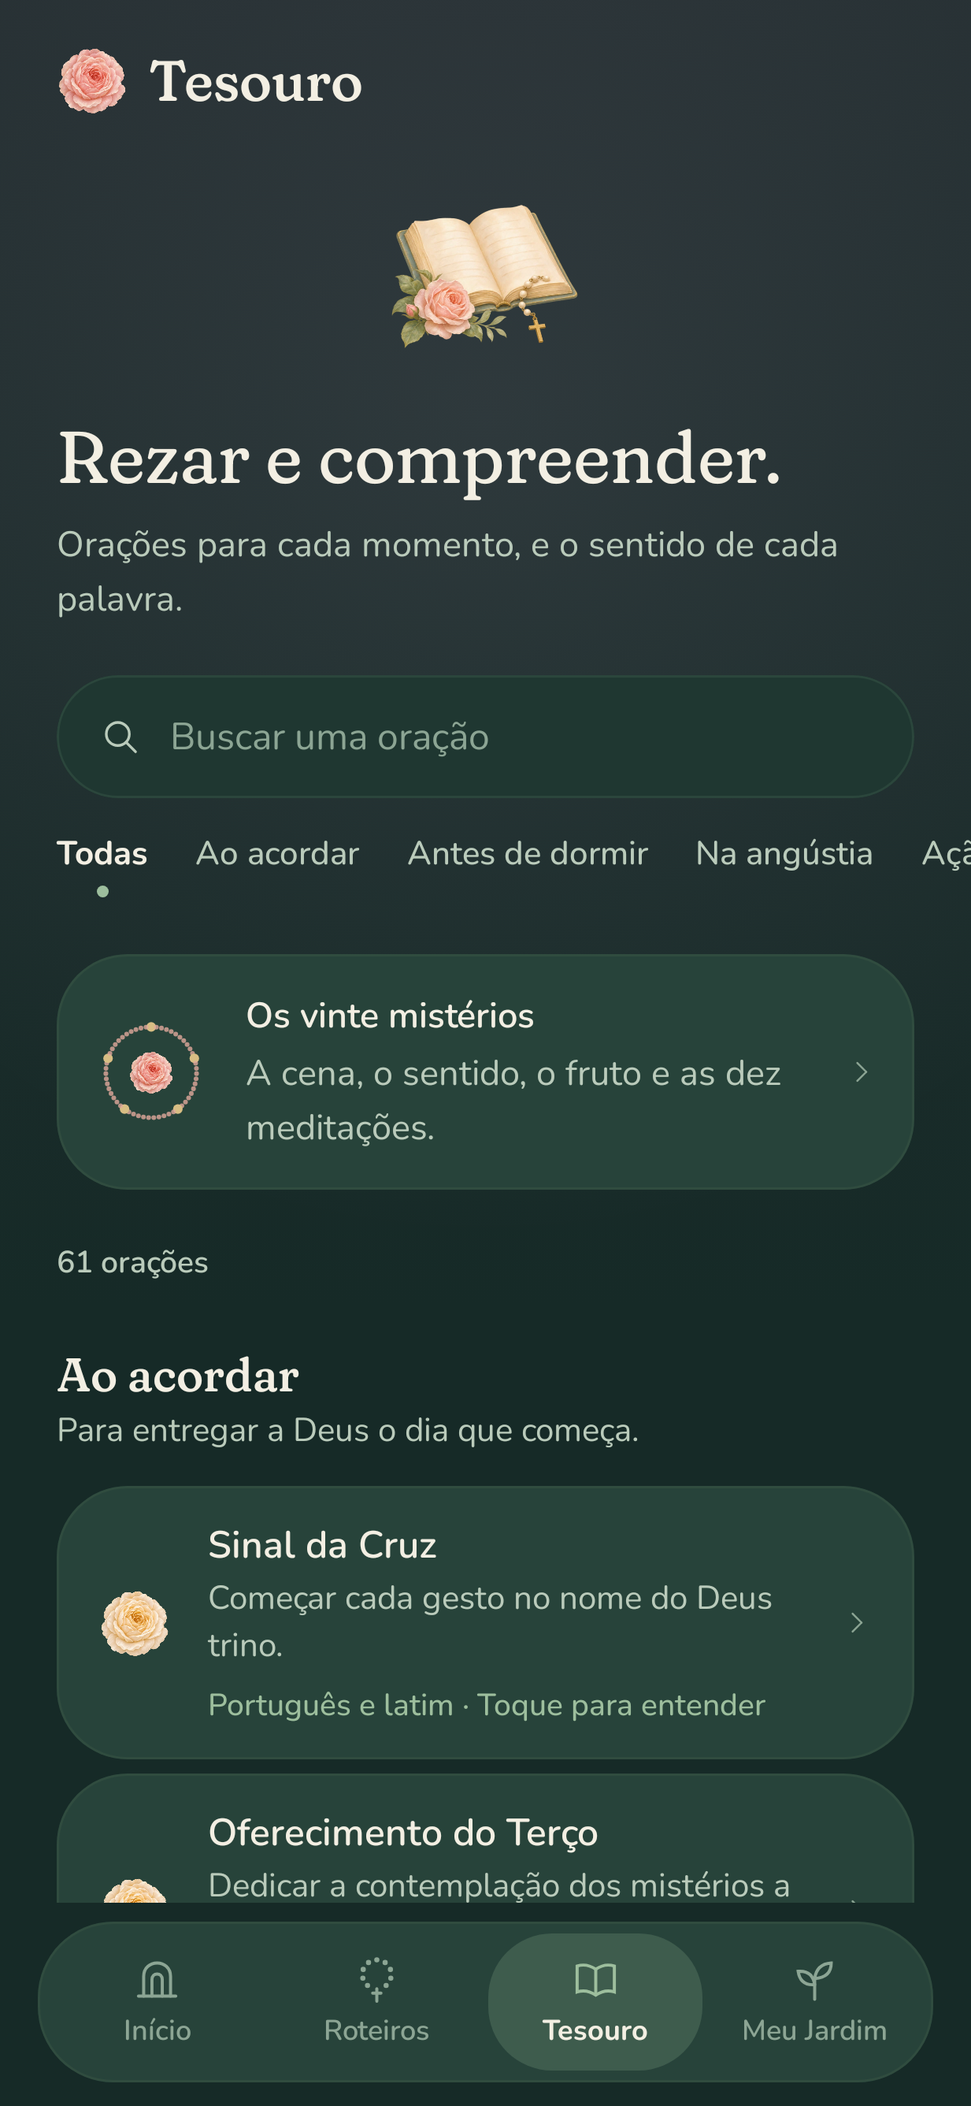
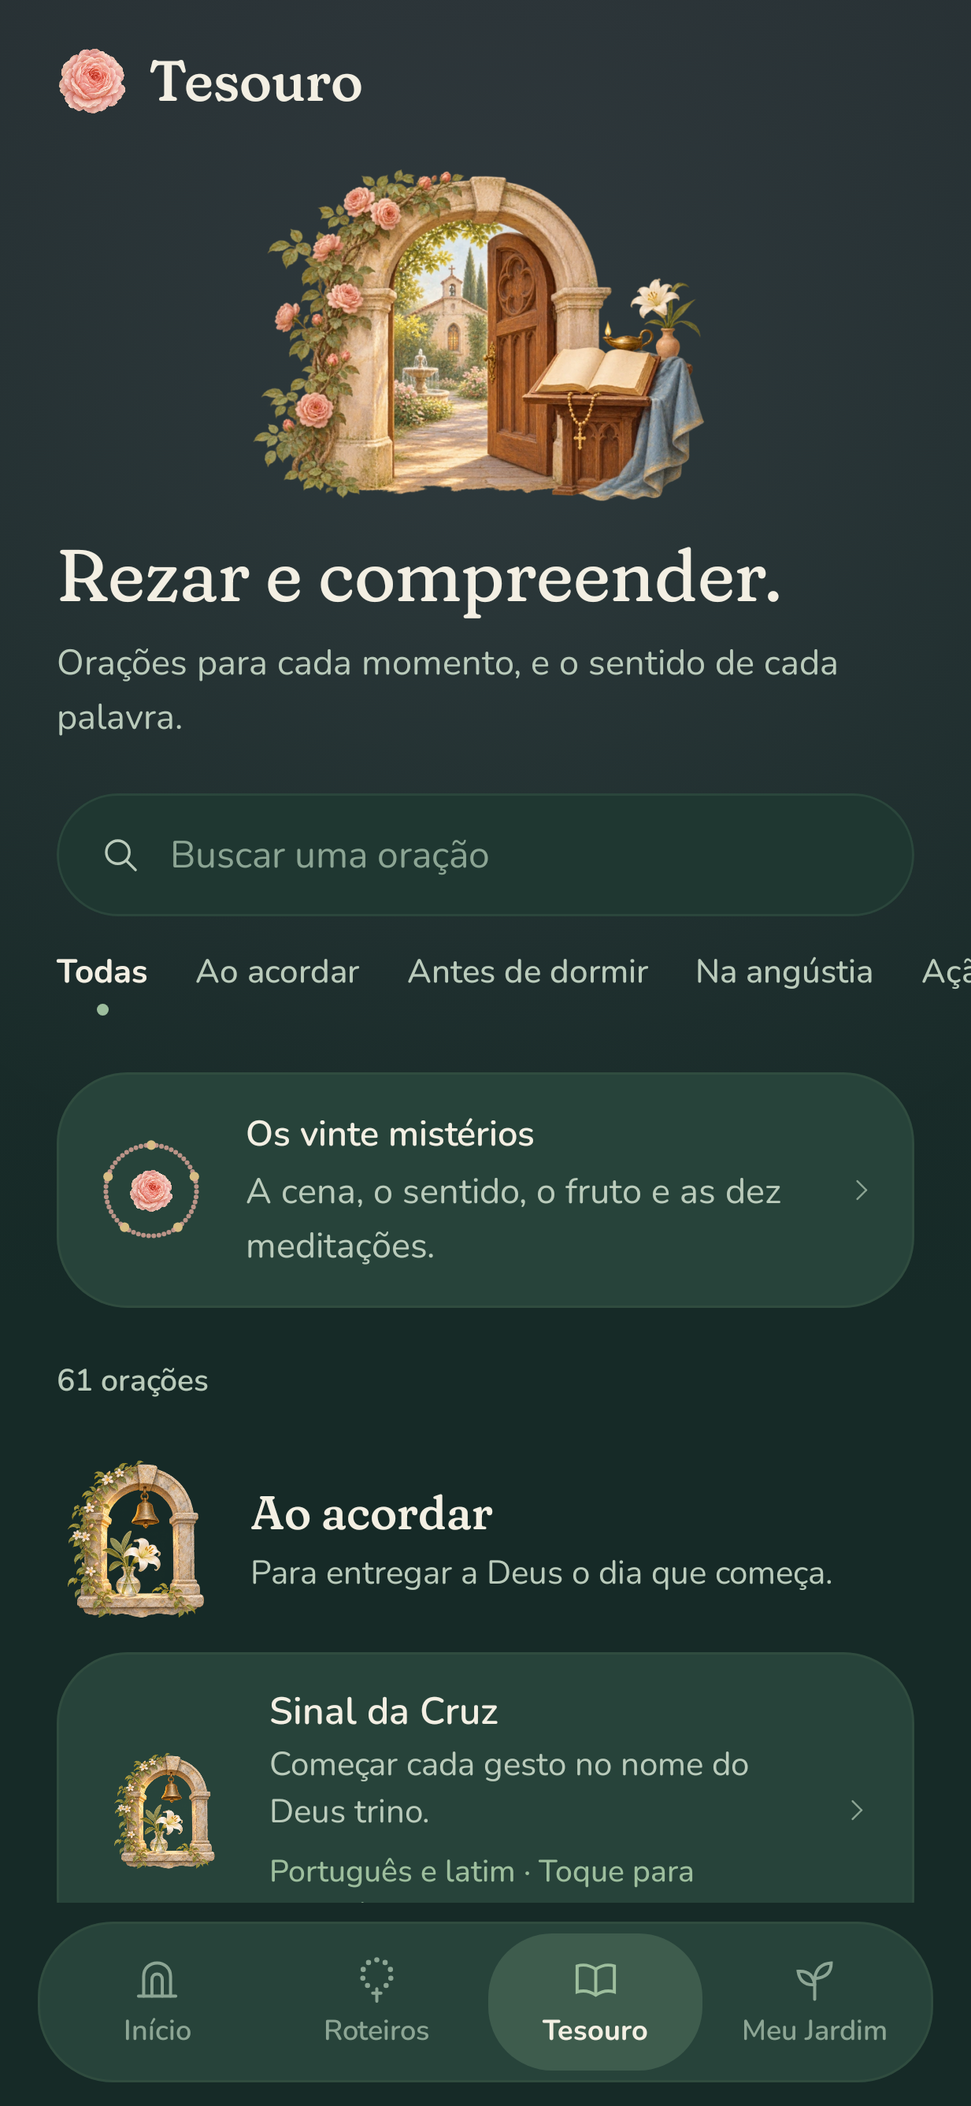
Give the Treasury seven original sacred paintings

diff --git a/app/src/main/java/com/sertumrosarum/feature/treasury/PrayerLibrary.kt b/app/src/main/java/com/sertumrosarum/feature/treasury/PrayerLibrary.kt
@@ -54,7 +54,6 @@ import com.sertumrosarum.ui.components.PageWelcome
 import com.sertumrosarum.ui.components.SacredCard
 import com.sertumrosarum.ui.components.SacredIcon
 import com.sertumrosarum.ui.components.SacredText
-import com.sertumrosarum.ui.components.ShelfHeading
 import com.sertumrosarum.ui.theme.SertumTheme
 
 /** The library: a search, the moments of life, and one shelf for each moment that has prayers. */
@@ -69,10 +68,15 @@ internal fun PrayerLibrary(state: TreasuryUiState, actions: TreasuryActions, scr
             SacredText("Tesouro", Modifier.semantics { heading() }, type.brand)
         }
         LazyColumn(Modifier.fillMaxSize().testTag("treasury-scroll"), state = scroll) {
-            item("welcome") {
+            if (state.query.isBlank()) item("welcome") {
                 Column(horizontalAlignment = Alignment.CenterHorizontally) {
-                    DevotionalArtwork(DevotionalIllustration.PRAYER_BOOK, Modifier.padding(top = 12.dp).size(width = 144.dp, height = 88.dp))
-                    PageWelcome("Rezar e compreender.", "Orações para cada momento, e o sentido de cada palavra.", Modifier.padding(top = 14.dp))
+                    val category = state.category
+                    if (category == null) {
+                        DevotionalArtwork(DevotionalIllustration.TREASURY_ENTRANCE, Modifier.padding(top = 10.dp).size(width = 256.dp, height = 144.dp))
+                    } else {
+                        TreasuryArtwork(category, Modifier.padding(top = 12.dp).size(120.dp))
+                    }
+                    PageWelcome(category?.label ?: "Rezar e compreender.", category?.caption ?: "Orações para cada momento, e o sentido de cada palavra.", Modifier.padding(top = 10.dp))
                 }
             }
             item("search") { PrayerSearchField(state.query, actions::search, Modifier.padding(start = 24.dp, end = 24.dp, top = 22.dp)) }
@@ -102,8 +106,15 @@ internal fun PrayerLibrary(state: TreasuryUiState, actions: TreasuryActions, scr
             } else {
                 val shelves = state.prayers.groupBy { it.category }
                 PrayerCategory.entries.filter { it in shelves }.forEach { category ->
-                    item("heading-${category.name}") {
-                        ShelfHeading(category.label, category.caption, Modifier.padding(top = 18.dp).testTag("shelf-${category.name}"))
+                    if (state.category == null) item("heading-${category.name}") {
+                        Row(Modifier.fillMaxWidth().padding(start = 20.dp, end = 24.dp, top = 12.dp, bottom = 10.dp).testTag("shelf-${category.name}"),
+                            verticalAlignment = Alignment.CenterVertically, horizontalArrangement = Arrangement.spacedBy(10.dp)) {
+                            TreasuryArtwork(category, Modifier.size(76.dp))
+                            Column(Modifier.weight(1f)) {
+                                SacredText(category.label, Modifier.semantics { heading() }, type.section)
+                                SacredText(category.caption, Modifier.padding(top = 4.dp), type.body.copy(fontSize = 14.sp, lineHeight = 21.sp), colors.secondary)
+                            }
+                        }
                     }
                     items(shelves.getValue(category), key = { "prayer-${it.id}" }, contentType = { "prayer" }) { prayer ->
                         SacredCard(Modifier.padding(horizontal = 24.dp).padding(bottom = 6.dp).fillMaxWidth()) { PrayerRow(prayer) { actions.openPrayer(prayer) } }
@@ -176,13 +187,12 @@ private fun CategoryChoices(selected: PrayerCategory?, onSelect: (PrayerCategory
 private fun PrayerRow(prayer: TreasuryPrayer, onOpen: () -> Unit) {
     val colors = SertumTheme.colors
     val type = SertumTheme.typography
-    val art = LocalBotanicalArtwork.current
     Row(
         Modifier.fillMaxWidth().clickable(role = Role.Button, onClickLabel = "Ler esta oração", onClick = onOpen).testTag("prayer-${prayer.id}")
             .heightIn(min = 76.dp).padding(start = 18.dp, end = 18.dp, top = 14.dp, bottom = 14.dp),
         verticalAlignment = Alignment.CenterVertically, horizontalArrangement = Arrangement.spacedBy(16.dp),
     ) {
-        Canvas(Modifier.size(30.dp)) { paintBotanical(art.ivoryRose, center, size.minDimension) }
+        TreasuryArtwork(prayer.category, Modifier.size(56.dp))
         Column(Modifier.weight(1f)) {
             SacredText(prayer.title, style = type.label.copy(fontSize = 16.sp, lineHeight = 22.sp, fontWeight = FontWeight.SemiBold))
             SacredText(prayer.summary, Modifier.padding(top = 2.dp), type.body.copy(fontSize = 14.sp, lineHeight = 20.sp), colors.secondary)

diff --git a/app/src/test/java/com/sertumrosarum/screenshots/TesouroScreenshotTest.kt b/app/src/test/java/com/sertumrosarum/screenshots/TesouroScreenshotTest.kt
@@ -10,6 +10,7 @@ import androidx.compose.ui.test.performSemanticsAction
 import androidx.compose.ui.test.performScrollToNode
 import androidx.compose.ui.test.hasTestTag
 import com.github.takahirom.roborazzi.captureRoboImage
+import com.sertumrosarum.domain.treasury.PrayerCategory
 import com.sertumrosarum.MainActivity
 import org.junit.Rule
 import org.junit.Test
@@ -51,6 +52,22 @@ class TesouroScreenshotTest {
         shot("tesouro-library")
         tap("category-WAKING")
         shot("tesouro-morning")
+    }
+
+    @Test fun eachMomentHasItsOwnPaintingInDayAndVigil() {
+        appearance("DAY")
+        tap("tab-TREASURY")
+        PrayerCategory.entries.forEach { category ->
+            tap("category-${category.name}")
+            shot("tesouro-category-${category.name.lowercase()}")
+        }
+        tap("tab-HOME")
+        appearance("VIGIL")
+        tap("tab-TREASURY")
+        listOf(PrayerCategory.NIGHT, PrayerCategory.COMMUNION).forEach { category ->
+            tap("category-${category.name}")
+            shot("tesouro-category-${category.name.lowercase()}-vigil")
+        }
     }
 
     @Test fun prayerInThreeReadings() {

diff --git a/app/src/main/java/com/sertumrosarum/feature/treasury/TreasuryArtwork.kt b/app/src/main/java/com/sertumrosarum/feature/treasury/TreasuryArtwork.kt
@@ -1,0 +1,23 @@
+package com.sertumrosarum.feature.treasury
+
+import androidx.compose.runtime.Composable
+import androidx.compose.ui.Modifier
+import com.sertumrosarum.domain.treasury.PrayerCategory
+import com.sertumrosarum.ui.canvas.DevotionalArtwork
+import com.sertumrosarum.ui.canvas.DevotionalIllustration
+
+/** The moment gives each shelf its own iconography; the shared cache decodes each painting once. */
+private val PrayerCategory.illustration: DevotionalIllustration
+    get() = when (this) {
+        PrayerCategory.WAKING -> DevotionalIllustration.TREASURY_MORNING
+        PrayerCategory.NIGHT -> DevotionalIllustration.TREASURY_NIGHT
+        PrayerCategory.DISTRESS -> DevotionalIllustration.TREASURY_CONSOLATION
+        PrayerCategory.THANKSGIVING -> DevotionalIllustration.TREASURY_THANKSGIVING
+        PrayerCategory.COMMUNION -> DevotionalIllustration.TREASURY_COMMUNION
+        PrayerCategory.MARIAN -> DevotionalIllustration.TREASURY_MARIAN
+    }
+
+@Composable
+internal fun TreasuryArtwork(category: PrayerCategory, modifier: Modifier = Modifier) {
+    DevotionalArtwork(category.illustration, modifier)
+}

diff --git a/app/src/main/java/com/sertumrosarum/feature/treasury/PrayerReadingPage.kt b/app/src/main/java/com/sertumrosarum/feature/treasury/PrayerReadingPage.kt
@@ -73,7 +73,8 @@ internal fun PrayerReadingPage(prayer: TreasuryPrayer, language: PrayerLanguage,
     val shown = if (latin == null) PrayerLanguage.PORTUGUESE else language
     SanctuaryPage(SanctuaryTab.TREASURY.label, "treasury-reading", onBack = actions::backToLibrary) {
         Column(Modifier.fillMaxWidth().padding(horizontal = 24.dp), horizontalAlignment = Alignment.CenterHorizontally) {
-            SacredText(prayer.category.label, Modifier.padding(top = 18.dp), type.micro, colors.marian, TextAlign.Center)
+            TreasuryArtwork(prayer.category, Modifier.padding(top = 12.dp).size(88.dp))
+            SacredText(prayer.category.label, Modifier.padding(top = 8.dp), type.micro, colors.marian, TextAlign.Center)
             val latinTitle = prayer.latinTitle
             if (shown == PrayerLanguage.LATIN && latinTitle != null) {
                 SacredText(latinTitle, Modifier.padding(top = 6.dp).testTag("reading-title").semantics { heading() }, type.heading.inLatin, align = TextAlign.Center)

diff --git a/app/src/main/java/com/sertumrosarum/ui/canvas/DevotionalArtwork.kt b/app/src/main/java/com/sertumrosarum/ui/canvas/DevotionalArtwork.kt
@@ -16,6 +16,13 @@ import com.sertumrosarum.R
 
 enum class DevotionalIllustration(internal val resourceId: Int) {
     PRAYER_BOOK(R.drawable.devotion_prayer_book),
+    TREASURY_ENTRANCE(R.drawable.treasury_entrance),
+    TREASURY_MORNING(R.drawable.treasury_morning),
+    TREASURY_NIGHT(R.drawable.treasury_night),
+    TREASURY_CONSOLATION(R.drawable.treasury_consolation),
+    TREASURY_THANKSGIVING(R.drawable.treasury_thanksgiving),
+    TREASURY_COMMUNION(R.drawable.treasury_communion),
+    TREASURY_MARIAN(R.drawable.treasury_marian),
     HOLY_FAMILY(R.drawable.devotion_holy_family),
     DIVINE_MERCY(R.drawable.devotion_divine_mercy),
     SAINT_JOSEPH(R.drawable.devotion_saint_joseph),

diff --git a/docs/artwork/treasury/README.md b/docs/artwork/treasury/README.md
@@ -1,0 +1,60 @@
+# Seven original paintings for Tesouro
+
+The Treasury has its own coordinated sacred artwork: six paintings for its moments of life and a welcoming chapel-garden entrance. These are original model-generated watercolor and gouache paintings, created for this project. They extend the cream, sage, Marian blue and restrained gold of the existing garden. The concept atlas established the palette; each final category painting was then generated separately with a complete silhouette and real alpha transparency.
+
+| Ao acordar | Antes de dormir | Na angústia |
+| --- | --- | --- |
+| <img src="masters/morning.png" width="220" alt="A garden arch, morning bell, lily and jasmine" /> | <img src="masters/night.png" width="220" alt="A bronze oil lamp, blue prayer book, jasmine and crescent moon" /> | <img src="masters/consolation.png" width="220" alt="Jesus the Good Shepherd gently holding one lamb" /> |
+
+| Ação de graças | Pós-comunhão | Marianas e tradicionais |
+| --- | --- | --- |
+| <img src="masters/thanksgiving.png" width="220" alt="A harvest basket of bread, figs, grapes, pomegranate and wheat" /> | <img src="masters/communion.png" width="220" alt="A gold chalice and plain host, with altar linen, wheat and grapes" /> | <img src="masters/marian.png" width="220" alt="Mary reading an open prayer book, with a lily and rose" /> |
+
+<img src="masters/entrance.png" width="660" alt="A rose-covered chapel arch opens onto a quiet garden; a reading stand holds a prayer book and rosary" />
+
+## Where the paintings appear
+
+The chapel entrance welcomes the reader to the complete library. Choosing a moment changes the opening illustration and its words. On the full library, each shelf has its own 76 dp painting; prayer cards use the corresponding 56 dp painting, replacing the repeated ivory rose. The reading page carries an 88 dp illustration above its category and title.
+
+During search, the large introductory illustration steps aside so results come into view immediately. The words, category labels and touch targets carry the navigation; paintings are decorative and never replace an accessible name. All images retain their proportions with `ContentScale.Fit`. No face, halo, moon or chalice is cropped. The paintings remain still in both Day and Vigil.
+
+## Masters and generation record
+
+The seven final [PNG masters](masters) remain unmodified at their generated resolution: 1254 × 1254 for each category and 1536 × 1024 for the entrance. The [concept atlas](masters/concept-atlas.png) is also preserved as reference; the app does not crop its illustrations out of the atlas. [prompts.json](prompts.json) records generation prompts, filenames, reference relationships and SHA-256 values.
+
+The iconography is intentionally distinct. The Good Shepherd accompanies consolation; the chalice belongs to communion; the basket expresses thanksgiving. The Marian portrait shows Mary alone reading, rather than repeating the existing mother-and-child pictures. Prayer-book pages and the host contain no generated lettering. The images illustrate a moment of prayer, not a claim to depict the historical setting of every prayer on that shelf.
+
+## Runtime exports
+
+Six transparent 512 × 512 WebP files and one 768 × 512 entrance WebP are bundled in `drawable-nodpi`. Together they add approximately **636 KiB** of image data. The shared devotional cache decodes each painting once on first use, so repeated cards do not allocate repeated bitmaps. Decoding all seven uses about **7.5 MiB**; the full-resolution masters and concept atlas stay outside the APK.
+
+Reproduce the exports with ImageMagick from the repository root:
+
+```sh
+for subject in morning night consolation thanksgiving communion marian; do
+  magick "docs/artwork/treasury/masters/$subject.png" \
+    -resize 512x512 -define webp:method=6 -quality 94 \
+    "app/src/main/res/drawable-nodpi/treasury_$subject.webp"
+done
+magick docs/artwork/treasury/masters/entrance.png \
+  -resize 768x512 -define webp:method=6 -quality 94 \
+  app/src/main/res/drawable-nodpi/treasury_entrance.webp
+```
+
+## Review on the real interface
+
+`TesouroScreenshotTest` renders every category in Day, the night and communion paintings in Vigil, and the reading/glossary on a narrow phone. These are actual Compose renders, not image-generated app mockups.
+
+```sh
+./gradlew recordRoborazziDebug --tests 'com.sertumrosarum.screenshots.TesouroScreenshotTest'
+```
+
+| Morning | Night | Consolation |
+| --- | --- | --- |
+| <img src="../../screenshots/tesouro-category-waking.png" width="220" alt="Morning prayer shelf in the app" /> | <img src="../../screenshots/tesouro-category-night.png" width="220" alt="Night prayer shelf in the app" /> | <img src="../../screenshots/tesouro-category-distress.png" width="220" alt="Consolation prayer shelf in the app" /> |
+
+| Thanksgiving | Communion in Vigil | Reading |
+| --- | --- | --- |
+| <img src="../../screenshots/tesouro-category-thanksgiving.png" width="220" alt="Thanksgiving prayer shelf in the app" /> | <img src="../../screenshots/tesouro-category-communion-vigil.png" width="220" alt="Communion prayer shelf in Vigil" /> | <img src="../../screenshots/tesouro-prayer.png" width="220" alt="The Ave Maria reading page with its original Marian painting" /> |
+
+The [Phase 3 documentation](../../phase-3.md) describes the library, content sources and behavioral tests.

diff --git a/docs/design-system.md b/docs/design-system.md
@@ -78,7 +78,7 @@ A sheet is a rounded page of the background colour that rises over a dusk-green 
 
 ### Tesouro
 
-The library opens under the painted prayer book. A soft search field sits on the surface colour; its cross appears only when there is something to clear. The moments of life follow as plain words in a row that runs past the edge, with a small sage bead under the chosen one. Each moment that has prayers is a shelf in the Roteiros form: a heading, a caption, and one card whose rows are separated by a hairline. What a prayer offers beyond its text (*Português e latim*, *Toque para entender*) stays typographic. A moment with nothing on it, or a search with no result, says so under a single bud. A **Formação** shelf leads to the twenty mysteries.
+The Treasury opens under its own painted chapel-garden entrance. Six original transparent paintings distinguish its moments of life in shelf headings, prayer rows and reading pages. Choosing a moment brings its painting into the opening; searching hides this large introduction so results come forward. A soft search field sits on the surface colour; its cross appears only when there is something to clear. The moments of life follow as plain words in a row that runs past the edge, with a small sage bead under the chosen one. Each moment that has prayers is a shelf in the Roteiros form: a heading, a caption, and one card whose rows are separated by a hairline. What a prayer offers beyond its text (*Português e latim*, *Toque para entender*) stays typographic. A moment with nothing on it, or a search with no result, says so under a single bud. A **Formação** shelf leads to the twenty mysteries.
 
 A prayer or the mysteries guide opens as a page of the same place: the way back takes the rose's seat beside **Tesouro**, and the shelf of four places stays. The prayer is set exactly as in the rosary, at 21 / 34 sp. When it has a Latin text, one soft track offers **Português**, **Latim**, and **Lado a lado**, in the mystery selector's form.
 

diff --git a/docs/phase-3.md b/docs/phase-3.md
@@ -10,6 +10,10 @@ Every prayer has a reading context and an attribution. These identify traditiona
 
 The bilingual reader aligns complete phrases or stanzas, with Latin glosses. It stacks the two languages on narrow screens or with larger text. Glosses explain literal meanings and grammar where the usual Portuguese differs. The Portuguese columns retain the same prayer, rather than silently replacing it with a literal translation. A prayer without a corresponding Latin version displays Portuguese while preserving the reader's language choice for the next bilingual prayer.
 
+## Original Treasury artwork
+
+Seven [new original sacred paintings](artwork/treasury/README.md) give Tesouro its own visual identity: a chapel-garden entrance and distinct morning, night, consolation, thanksgiving, communion and Marian illustrations. They appear in the category openings, shelf headings, prayer cards and reading pages. Search brings results forward by hiding the large introduction. Transparent WebP exports are bundled and decoded lazily through the existing shared cache; the unmodified masters and generation record are archived separately.
+
 ## Touch to understand
 
 `PrayerAnnotationParser` is independent of Compose. It matches every occurrence of an expression at word boundaries, ignoring case and allowing whitespace and line breaks. It recognizes canonically equivalent Unicode accents while returning UTF-16 offsets into the untouched prayer. Different accents remain distinct. Longer expressions win overlaps; editorial order breaks ties. Blank terms and regex metacharacters are safe.

diff --git a/README.md b/README.md
@@ -355,7 +355,7 @@ See [`phases.md`](phases.md) for the milestone definitions and acceptance criter
 
 ### Artwork and font credits
 
-The home garden uses original model-generated sacred paintings, inspired by the grace and light of classical Marian art. [Full-resolution garden masters, final prompts, and the seven-round exploration](docs/artwork/garden/README.md) are preserved with the project. The [coordinated botanical paintings and prompts](docs/artwork/botanical/README.md) extend its roses, buds, and leaves through the prayer beads, crown, ornaments, and launcher. Canvas handles composition and motion; interface symbols and the themed launcher use custom vector artwork. Fraunces and Nunito are bundled from Google Fonts under their [SIL Open Font Licenses](docs/fonts).
+The home garden uses original model-generated sacred paintings, inspired by the grace and light of classical Marian art. The [seven Treasury paintings](docs/artwork/treasury/README.md) add a chapel entrance and individual artwork for its six moments of life. [Full-resolution garden masters, final prompts, and the seven-round exploration](docs/artwork/garden/README.md) are preserved with the project. The [coordinated botanical paintings and prompts](docs/artwork/botanical/README.md) extend its roses, buds, and leaves through the prayer beads, crown, ornaments, and launcher. Canvas handles composition and motion; interface symbols and the themed launcher use custom vector artwork. Fraunces and Nunito are bundled from Google Fonts under their [SIL Open Font Licenses](docs/fonts).
 
 ---
 

diff --git a/docs/artwork/devotions/README.md b/docs/artwork/devotions/README.md
@@ -17,7 +17,7 @@ The [exact prompts, generation filenames, and reference relationships](prompts.j
 
 ## Scale and composition
 
-Library rows use 64 dp images; themed cards give the illustration 104 dp of height. Guide sheets use 128 dp portraits. The book at the library entrance is an 88 dp ornament; Tesouro uses a 168 dp vignette. Every image uses `ContentScale.Fit` with its original transparent margins, keeping halos, hands, lilies, and wings inside the composition. The title beside each decorative image provides its accessible name.
+Library rows use 64 dp images; themed cards give the illustration 104 dp of height. Guide sheets use 128 dp portraits. The book at the Roteiros entrance is an 88 dp ornament. Tesouro now has its own [seven-painting collection](../treasury/README.md), while its mystery study sheets retain the Scripture-book ornaments. Every image uses `ContentScale.Fit` with its original transparent margins, keeping halos, hands, lilies, and wings inside the composition. The title beside each decorative image provides its accessible name.
 
 Delivered devotional crowns place the matching painting inside the existing gold setting. Ordinary rosaries retain their central rose. The surrounding flowers use the script's actual counts: 49 for Tears and 72 for the Franciscan crown. Blossom size and leaf spacing contract for denser rings. Sacred figures remain still; only the surrounding light and foliage retain the app's restrained motion, which respects the live system animation setting.
 
